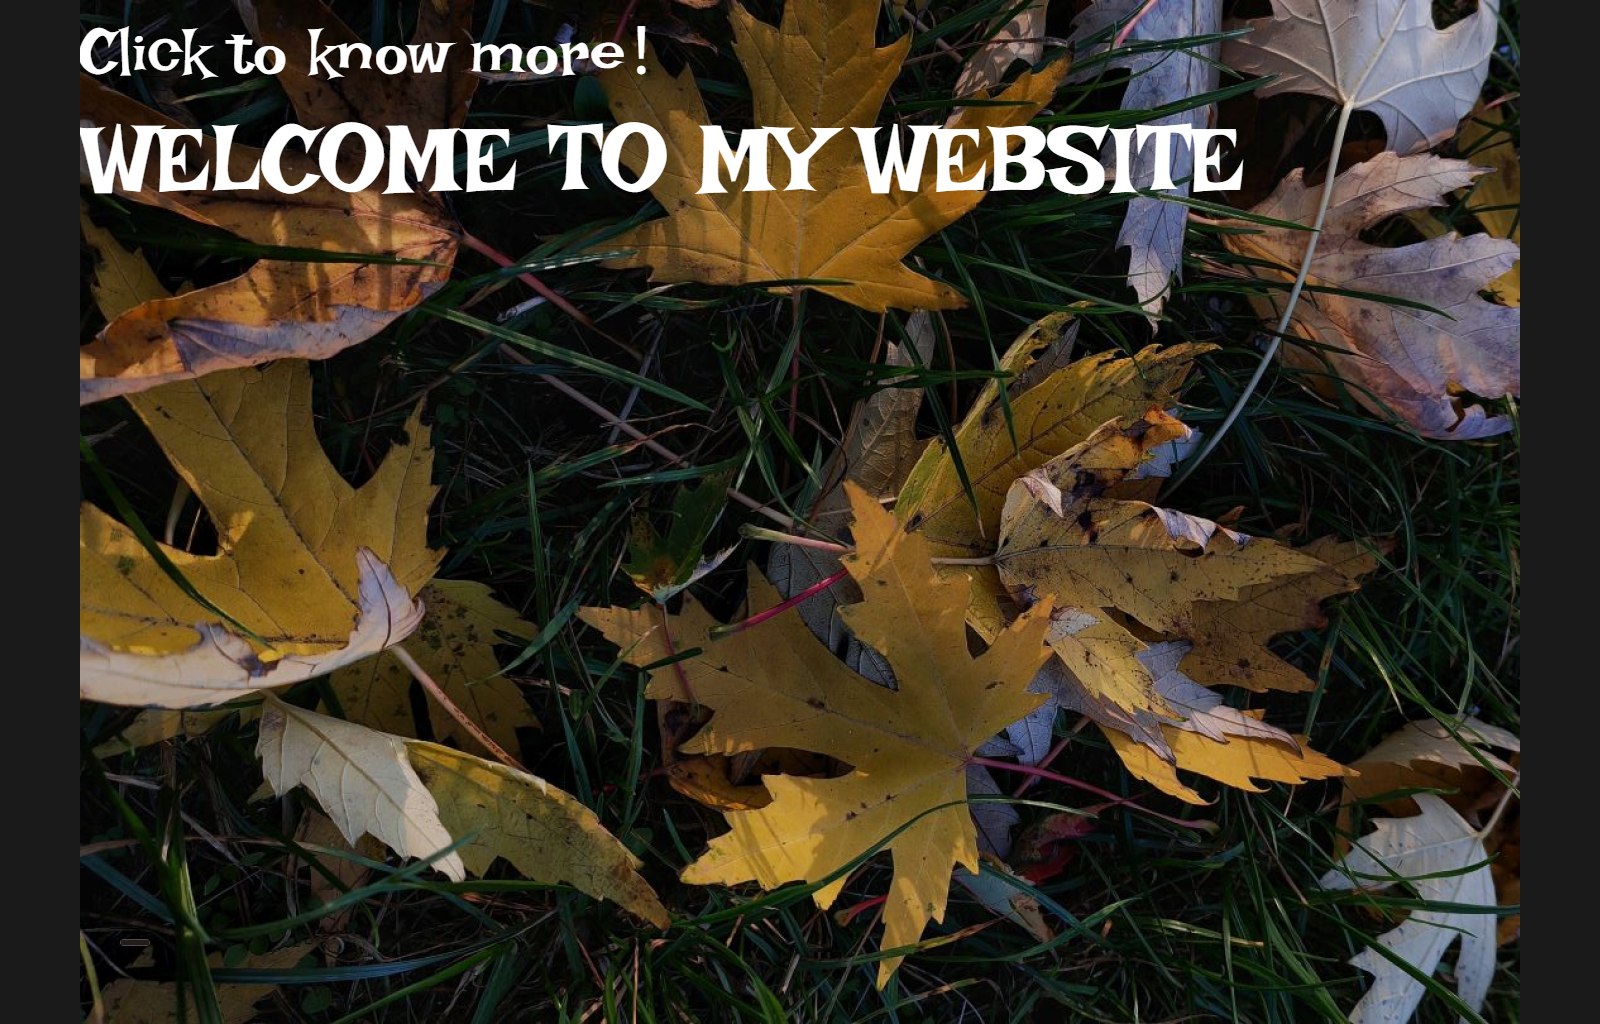
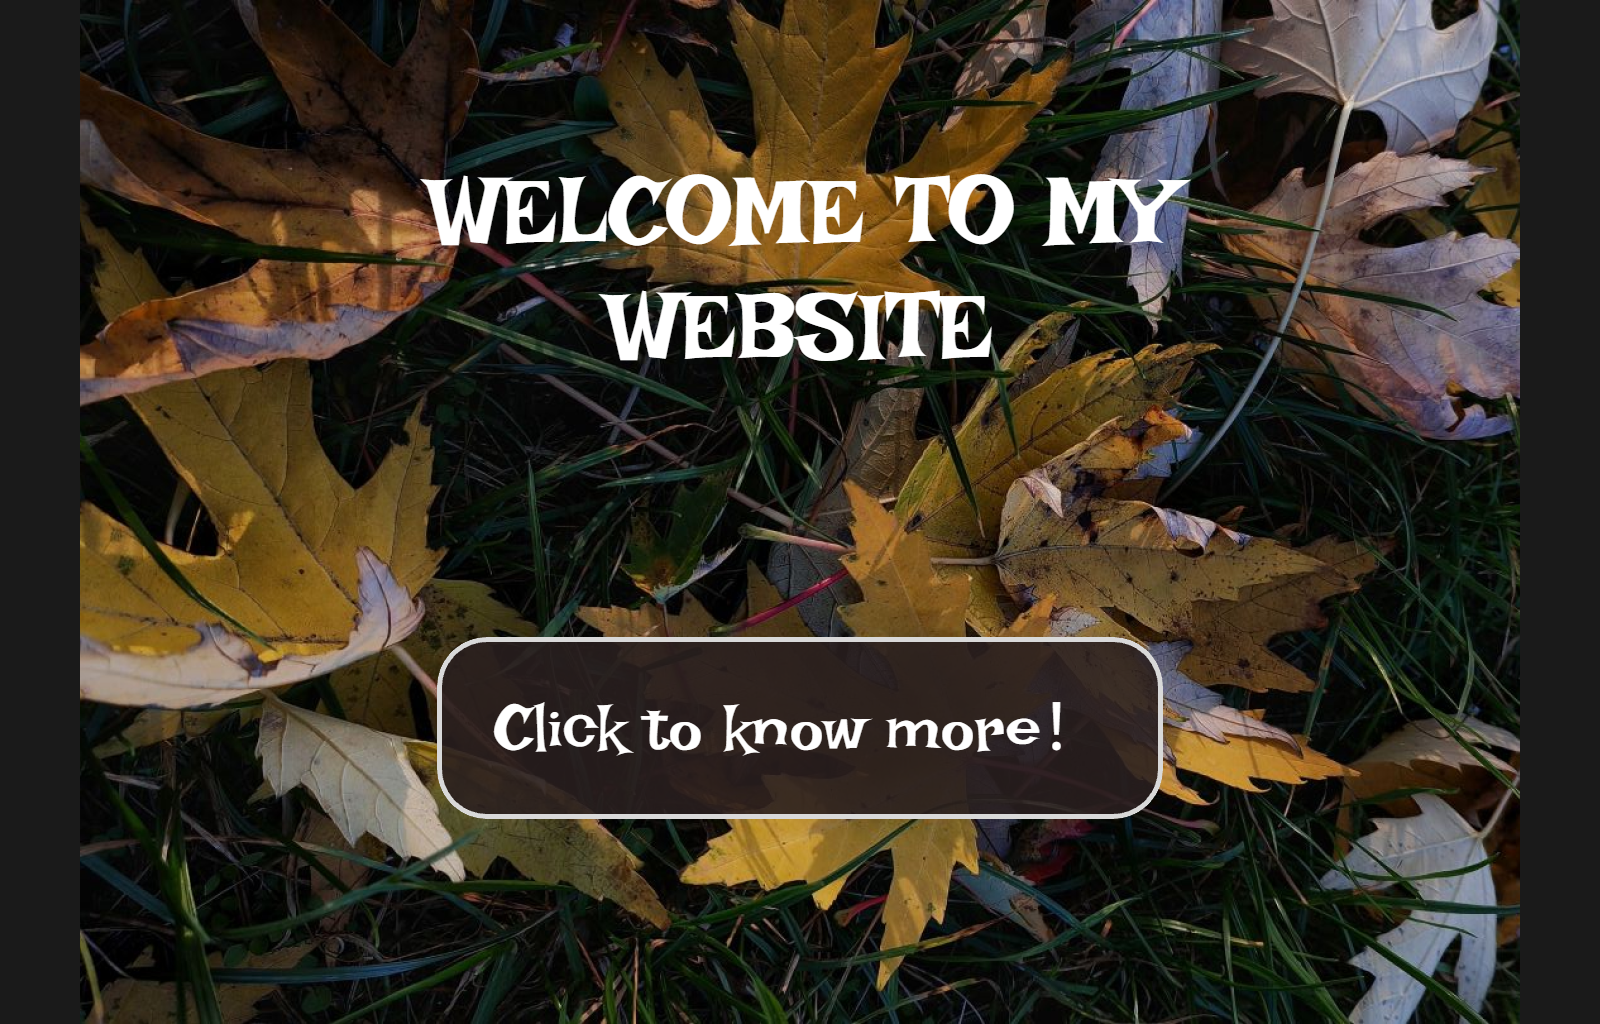
完成第一页排版和跳转

diff --git a/styles.css b/styles.css
@@ -1878,3 +1878,58 @@ position: relative !important;
 .desktop-7-136 img.rectangle-10-159 { left: 390px !important;  top: 240px !important; }
 .desktop-7-136 img.rectangle-11-160 { left: 740px !important;  top: 240px !important; }
 .desktop-7-136 img.rectangle-12-161 { left: 1090px !important; top: 240px !important; }
+
+/* ===== E. desktop-1 首页大按钮修复 =====
+   病因：全局导航规则把 726x182 的胶囊按钮压成 150x56，内部图形又被 max-width:30px 压成 30x8 小条。
+   修复：恢复完整尺寸，保留在原有位置（画板左下），强行提到背景图之上，全区域可点。 */
+/* 整个按钮组件水平居中、置于下方；内部文字/框结构与跳转不变 */
+/* 注意：选择器加 :nth-of-type(1) 以压过导航规则的 left:40px（权重 0,3,1） */
+.desktop-1-1 a.prototype-link:nth-of-type(1) {
+  position: absolute !important;
+  left: 50% !important;
+  bottom: 20% !important;
+  top: auto !important;
+  width: 726px !important;
+  height: 182px !important;
+  transform: translateX(-50%) !important;
+  z-index: 99 !important;
+  cursor: pointer !important;
+  display: block !important;
+}
+.desktop-1-1 a.prototype-link img.rectangle-1-3 {
+  position: absolute !important;
+  left: 0 !important;
+  top: 0 !important;
+  width: 100% !important;
+  height: 100% !important;
+  max-width: none !important;
+  max-height: none !important;
+}
+/* 按钮文字（独立的 text-4）包一层链接后可点击，样式保持不变 */
+/* 文字“Click to know more！”居中在黑框（胶囊）正中间，白色、高层级 */
+.desktop-1-1 a.prototype-link p.text-4 {
+  position: absolute !important;
+  top: 50% !important;
+  left: 50% !important;
+  transform: translate(-50%, -50%) !important;
+  margin: 0 !important;
+  width: max-content !important;
+  font-size: 64px !important;   /* 恢复 Figma 原始字号，压过导航 18px 规则 */
+  line-height: 1.2 !important;
+  color: #ffffff !important;
+  z-index: 10 !important;
+  white-space: nowrap !important;
+  text-align: center !important;
+  cursor: pointer !important;
+}
+/* WELCOME TO MY WEBSITE：两行居中，位于背景图偏上方（左右位置相对画板居中） */
+.desktop-1-1 p.text-5 {
+  position: relative !important;
+  top: 15% !important;
+  left: 50% !important;
+  transform: translateX(-50%) !important;
+  width: 800px !important;    /* 实测第一行 746px；600px 会多折一行，故用 800px */
+  max-width: 80% !important;
+  text-align: center !important;
+  line-height: 1.2 !important;
+}

diff --git a/desktop-1.html b/desktop-1.html
@@ -14,9 +14,9 @@
 <img src="images/node-2.png" class="node-2" alt="pexels-tania-3802621-34466675-1" />
 <a href="desktop-2.html" class="prototype-link">
 <img src="images/rectangle-1-3.svg" class="rectangle-1-3" alt="rectangle-1" />
-</a>
 <p class="text-4"><span class="text-white"> Click to know more！</span></p>
-<p class="text-5"><span class="text-white">WELCOME TO MY WEBSITE</span></p>
+</a>
+<p class="text-5"><span class="text-white">WELCOME TO MY<br>WEBSITE</span></p>
 </div>
 
 </body>

diff --git a/.workbuddy/memory/2026-10-19.md b/.workbuddy/memory/2026-10-19.md
@@ -28,3 +28,29 @@
 
 ## 第五轮：修正 desktop-5 音频绑定
 - exclude-87 与 exclude-89 的 data-audio 对调：exclude-87 → audio/未闻花名.m4a，exclude-89 → audio/Yuri on ice！.m4a。已 grep 复核，两个文件服务器均 200。
+
+## 第六轮：desktop-1 首页按钮修复
+- 病因：rectangle-1-3.svg 是 726x182 胶囊按钮，但全局导航规则把 a.prototype-link 压成 150x56 并挪到左下，内部 img 又被 max-width:30px 压成 30x8 小条；按钮文字 text-4 是独立 <p> 不在 <a> 内，点文字无反应。href 原本就已指向 desktop-2.html。
+- 修复（styles.css 末尾 E 段，全部 .desktop-1-1 作用域，不影响其他页）：a.prototype-link 恢复 726x182 + absolute left:40/bottom:40（留在原位）+ z-index:99 + cursor:pointer；img.rectangle-1-3 绝对定位填满锚框（max-width:none 解除 30px 限制）；新增 a.text-link 规则。
+- desktop-1.html：text-4 的 <p> 外包一层 <a href="desktop-2.html" class="text-link">，文字位置尺寸经实测零变动（x80 y0 609x92 不变）。
+- 实测（Chromium 1600 视口）：锚框 726x182 @ (120,802) z=99；点击胶囊与点击文字均成功跳转 /desktop-2.html。
+- 备注：本地服务器 8777 需用 run_in_background 方式常驻，否则命令结束即被回收导致浏览器 ERR_CONNECTION_REFUSED；agent-browser 的 set viewport 与 open 必须链在同一条命令内，会话不跨命令保持。
+
+## 第七轮：desktop-1 黑框文字居中 + 跳转热区
+- 结构：把 <p class="text-4">（Click to know more！）从独立 <a class="text-link"> 移入 <a class="prototype-link"> 内部（img 之后），黑框与文字同属一个链接，点击任意处均跳 desktop-2.html。
+- CSS（.desktop-1-1 作用域）：p.text-4 → absolute + top/left 50% + translate(-50%,-50%) + margin:0 + width:max-content + nowrap + 白色 + z-10 + cursor:pointer + font-size:64px（压过第 1844 行导航全局规则 a.prototype-link p {font-size:18px}，该规则曾把按钮文字压成 18px 小字，是本次最大坑）。
+- 实测（Chromium 1600 视口）：黑框 726x182 @ (120,802) z-99；文字 609x77 @ (178,855) 64px 白色；centerOffsetX/Y = 0（像素级居中）；text-5 WELCOME 位置零变动（x80 y0 1166x116）；点击黑框与点击文字均跳 /desktop-2.html。
+
+## 第八轮：desktop-1 按钮整体居中 + WELCOME 下移
+- 按钮组件（a.prototype-link 含框+文字，内部结构未动）平移：left:50% + transform:translateX(-50%) + bottom:20%。选择器加 :nth-of-type(1) 提升权重至 (0,3,1)，压过导航规则 [class^="desktop-"] a.prototype-link:nth-of-type(1) 的 left:40px（否则 left 会被导航规则抢走，居中失效）。
+- WELCOME（p.text-5）：加 top:48px（relative 偏移，左右不变），y 0→48。
+- 实测（1600 视口）：按钮 x437 w726 → 中心 800 = 画板中心（偏差 0）；文字框内居中偏差 0/0；bottom:20% → 按钮底边 y819；WELCOME y48；点击仍跳 /desktop-2.html。
+
+## 第九轮：WELCOME 标题再下移
+- .desktop-1-1 p.text-5 的 top: 48px → 120px（+72px）。实测 y=120，h=116，与按钮（y=637）间距 401px，位于背景图偏上方。左右位置 x=80 未动。
+
+## 第十轮：WELCOME 标题两行居中
+- 实测字体宽度：整行 1166px、"WELCOME TO MY" 746px、"WEBSITE" 389px（Irish Grover 96px 已加载）。用户给的 width:600px 会令第一行再折叠成三行，故宽度调整为 800px。
+- HTML：span 内加 <br>（WELCOME TO MY<br>WEBSITE）精确控制断行点。
+- CSS：.desktop-1-1 p.text-5 → top:15% + left:50% + translateX(-50%) + width:800px + max-width:80% + text-align:center + line-height:1.2（position 保持 relative，不动其他元素）。
+- 实测（1600 视口）：y=154（=15%×1024）、h=230（=2×115.2 两行）、水平居中偏差 0；按钮与布局未受影响。
